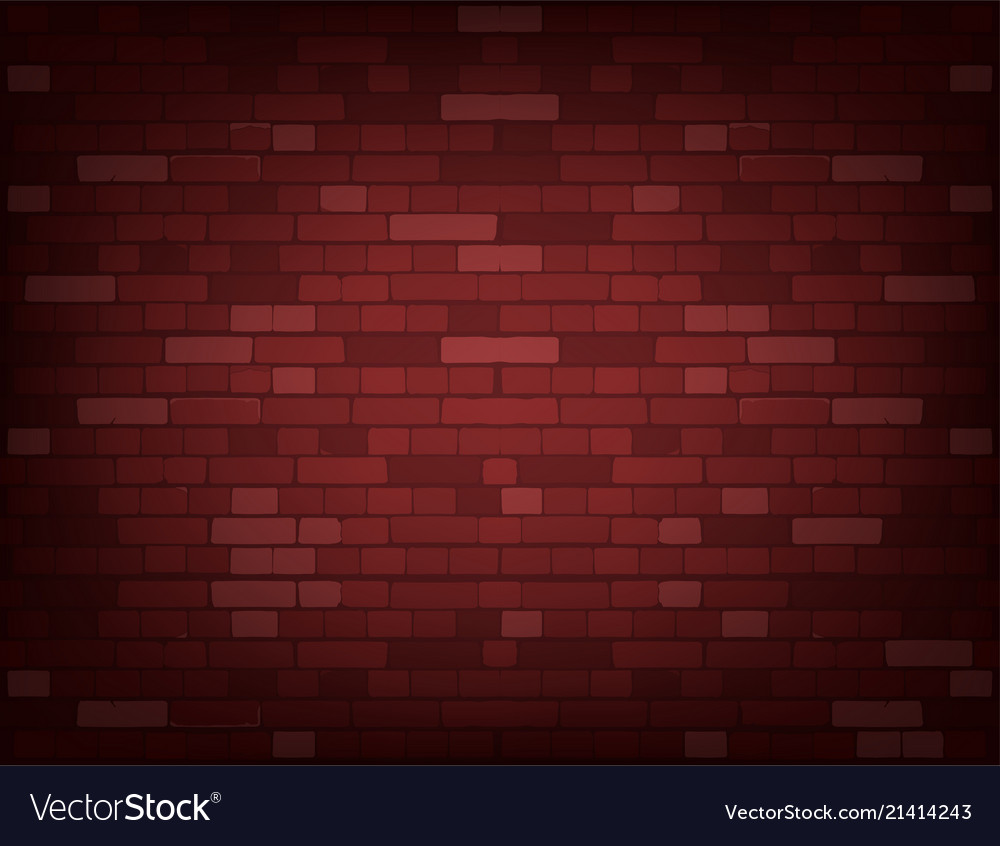
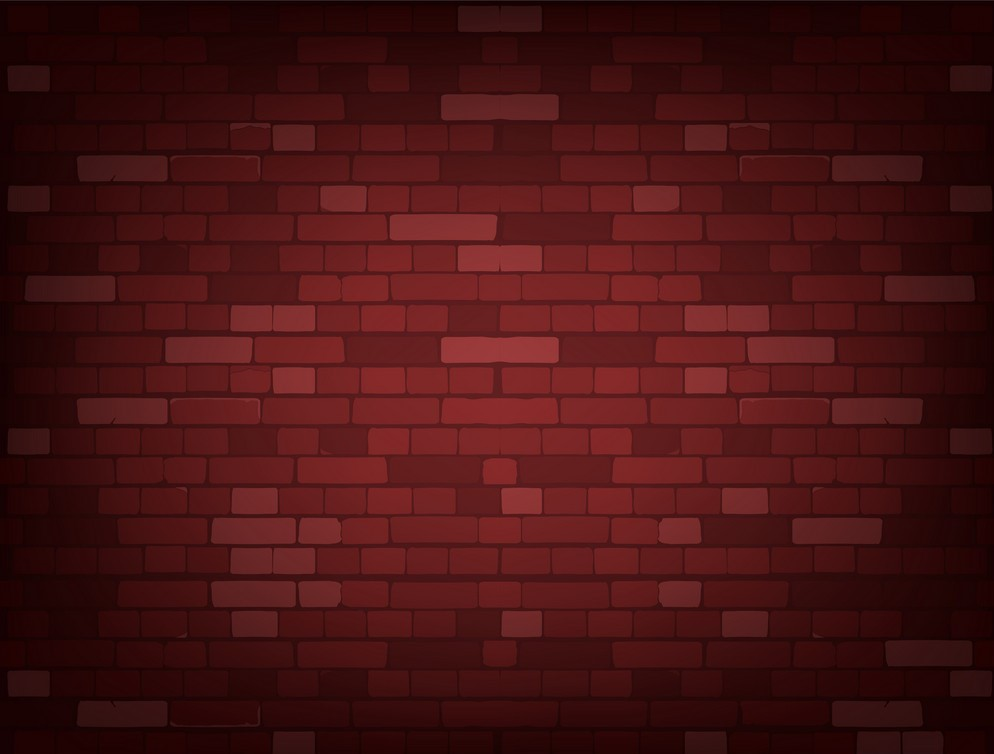
fix background image

diff --git a/javascript.js b/javascript.js
@@ -40,15 +40,26 @@ var Coding3 = ["Coding 3 Answer 1", "Coding 3 Answer 2", "What is a variable?", 
 var Coding4 = ["Coding 4 Answer 1", "Add, Commit, Push", "Coding 4 Answer 4", "Coding 4 Answer 4"]
 var Coding5 = ["All of it", "Coding 5 Answer 2", "Coding 5 Answer 3", "Coding 5 Answer 4"]
 
+var turnCounter = 0;
 //Sport Buttons
 
 $(document).ready(function(){
     $(".btn-choiceSport1").on("click",function() {
     if($(this).val()== 3){
-       playerScore +=100;    
+       if(turnCounter % 2 == 0){
+         player1Score +=100;
+       }
+      else{
+         player2Score +=100
+      }    
     }
     else{
-        playerscore -=100;
+       if(turnCounter % 2 == 0){
+        player1score -=100;
+       }
+       else{
+          player2Score -=100;
+       }
        }
     });   
    });
@@ -56,44 +67,84 @@ $(document).ready(function(){
    $(document).ready(function(){
     $(".btn-choiceSport2").on("click",function() {
     if($(this).val()== 1){
-       playerScore +=200;    
+      if(turnCounter % 2 == 0){
+         player1Score +=200;
+       }
+      else{
+         player2Score +=200
+      }    
     }
     else{
-        playerscore -=200;
+       if(turnCounter % 2 == 0){
+        player1score -=200;
        }
+       else{
+          player2Score -=200;
+       }
+      }
     });   
    });
 
    $(document).ready(function(){
     $(".btn-choiceSport3").on("click",function() {
     if($(this).val()== 2){
-       playerScore +=300;    
+      if(turnCounter % 2 == 0){
+         player1Score +=300;
+       }
+      else{
+         player2Score +=300
+      }    
     }
     else{
-        playerscore -=300;
+       if(turnCounter % 2 == 0){
+        player1score -=300;
        }
+       else{
+          player2Score -=300;
+       }
+      }
     });   
    });
 
    $(document).ready(function(){
     $(".btn-choiceSport4").on("click",function() {
     if($(this).val()== 4){
-       playerScore +=400;    
+      if(turnCounter % 2 == 0){
+         player1Score +=400;
+       }
+      else{
+         player2Score +=400
+      }    
     }
     else{
-        playerscore -=400;
+       if(turnCounter % 2 == 0){
+        player1score -=400;
        }
+       else{
+          player2Score -=400;
+       }
+      }
     });   
    });
 
    $(document).ready(function(){
     $(".btn-choiceSport5").on("click",function() {
     if($(this).val()== 4){
-       playerScore +=500;    
+      if(turnCounter % 2 == 0){
+         player1Score +=500;
+       }
+      else{
+         player2Score +=500
+      }    
     }
     else{
-        playerscore -=500;
+       if(turnCounter % 2 == 0){
+        player1score -=500;
        }
+       else{
+          player2Score -=500;
+       }
+      }
     });   
    });
 

diff --git a/project.css b/project.css
@@ -21,4 +21,5 @@
 
 body{
     background-image: url("brickWall.jpg");
+    background-size: cover;
 }
